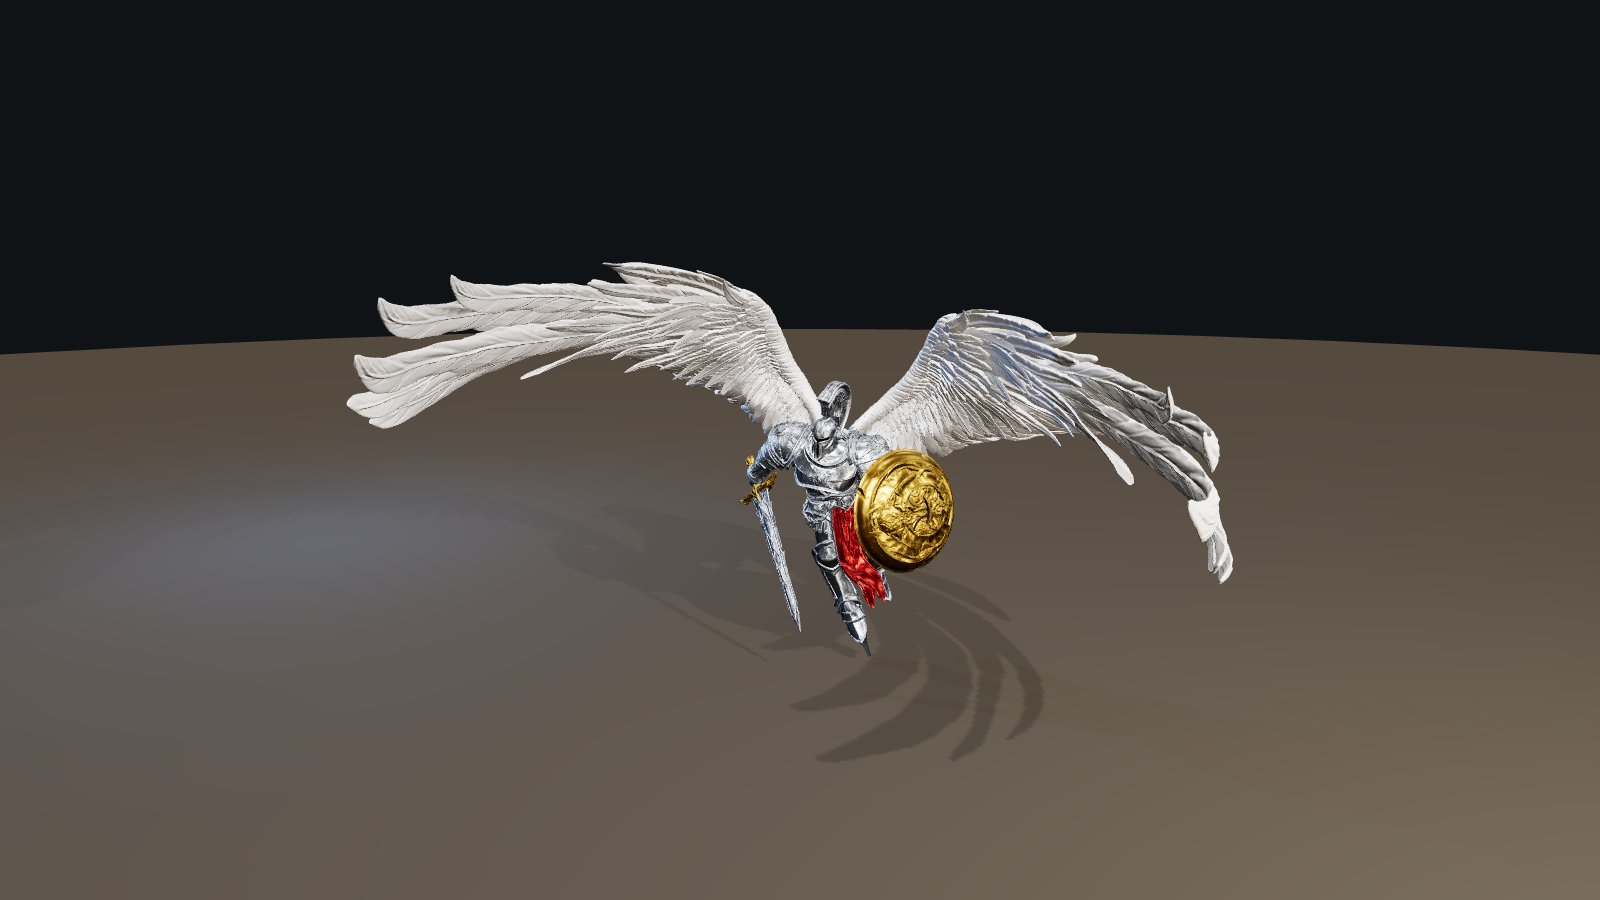
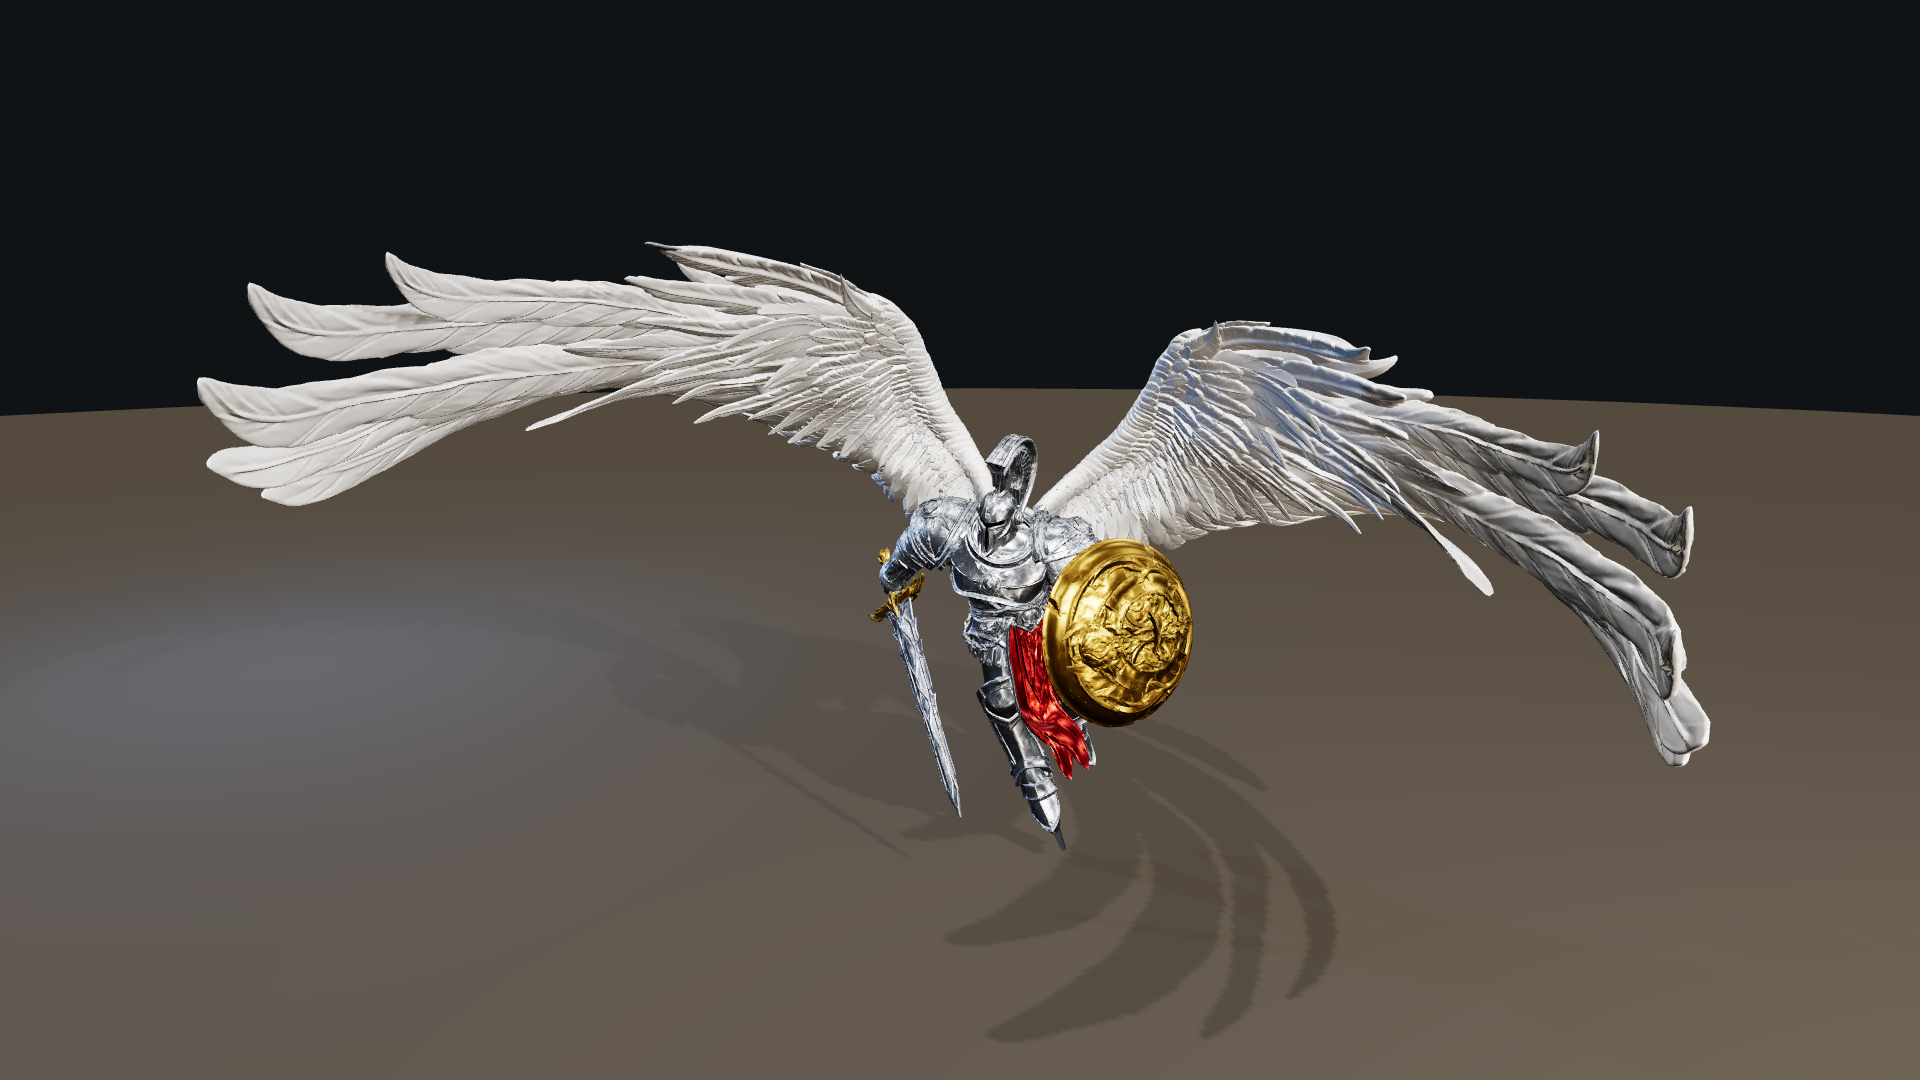
Publish Chromatory site

Changed region(s): [[0.0, 0.2178, 1.0, 0.7778]]

diff --git a/index.html b/index.html
@@ -147,6 +147,7 @@
       <a class="navlink" href="#free">Free tools</a>
       <a class="navlink" href="#features">Features</a>
       <a class="navlink" href="#gallery">Gallery</a>
+      <a class="navlink" href="https://patreon.com/Chromatory?utm_medium=unknown&amp;utm_source=join_link&amp;utm_campaign=creatorshare_creator&amp;utm_content=copyLink" target="_blank" rel="noopener">&#10084;&#65039; Patreon</a>
       <a class="btn primary" href="https://spiffcow.github.io/chromatory-light-studio/" target="_blank" rel="noopener">Launch Studio</a>
     </nav>
   </div>
@@ -190,7 +191,7 @@
           <li>Save your lighting rigs and grab reference renders</li>
         </ul>
         <a class="btn primary" href="https://spiffcow.github.io/chromatory-light-studio/" target="_blank" rel="noopener">Open the Light Studio</a>
-        <p class="vid-credit">Model shown: <b>The Price of Magic</b>, sculpted by Nerikson</p>
+        <p class="vid-credit">Model shown: <b><a href="https://www.myminifactory.com/users/nerikson" target="_blank" rel="noopener">The Price of Magic</a></b>, sculpted by Nerikson</p>
       </div>
       <div class="media">
         <video autoplay muted loop playsinline preload="metadata" poster="assets/studio-price-of-magic.png">
@@ -210,7 +211,7 @@
           <li>Export a single watertight STL that's ready to print</li>
         </ul>
         <a class="btn primary" href="https://spiffcow.github.io/chromatory-light-studio/assembly/" target="_blank" rel="noopener">Open the Assembly Workbench</a>
-        <p class="vid-credit">Model shown: <b>Krymathor</b>, sculpted by Flesh of Gods</p>
+        <p class="vid-credit">Model shown: <b><a href="https://www.myminifactory.com/object/3d-print-krymathor-the-keeper-ancient-red-dragon-474966" target="_blank" rel="noopener">Krymathor</a></b>, sculpted by Flesh of Gods</p>
       </div>
       <div class="media">
         <video autoplay muted loop playsinline preload="metadata" poster="assets/assembly-krymathor-complete.png">
@@ -230,7 +231,7 @@
           <li>Capture a reference render from any angle you like</li>
         </ul>
         <a class="btn primary" href="https://spiffcow.github.io/chromatory-light-studio/" target="_blank" rel="noopener">Open the Light Studio</a>
-        <p class="vid-credit">Model shown: <b>Lord Celestian Prime</b>, sculpted by Rescale Miniatures</p>
+        <p class="vid-credit">Model shown: <b><a href="https://www.myminifactory.com/object/3d-print-release-bastion-of-purity-volume-ii-627063" target="_blank" rel="noopener">Lord Celestian Prime</a></b>, sculpted by Rescale Miniatures</p>
       </div>
       <div class="media">
         <video autoplay muted loop playsinline preload="metadata" poster="assets/studio-celestian-nmm.png">
@@ -271,14 +272,12 @@
       <p>Real prints under the Light Studio. It's the same interactive view you'll get on your own models.</p>
     </div>
     <div class="gallery">
-      <figure><img src="assets/studio-price-of-magic.png" loading="lazy" alt="Silver NMM under arcane light" /><figcaption>The Price of Magic, arcane OSL and NMM<span class="credit">Sculpt: Nerikson</span></figcaption></figure>
-      <figure><img src="assets/studio-krymathor.png" loading="lazy" alt="Krymathor dragon over a golden glow" /><figcaption>Krymathor, lit by a golden glow<span class="credit">Sculpt: Flesh of Gods</span></figcaption></figure>
-      <figure><img src="assets/studio-moment-of-rest.png" loading="lazy" alt="A Moment of Rest by firelight" /><figcaption>A Moment of Rest, by firelight<span class="credit">Sculpt: Nerikson</span></figcaption></figure>
-      <figure><img src="assets/studio-pom-silver-nmm.png" loading="lazy" alt="Silver non-metallic metal" /><figcaption>A silver NMM look<span class="credit">The Price of Magic · Nerikson</span></figcaption></figure>
-      <figure><img src="assets/studio-pom-gold-nmm.png" loading="lazy" alt="Gold non-metallic metal" /><figcaption>Gold NMM, one click<span class="credit">The Price of Magic · Nerikson</span></figcaption></figure>
-      <figure><img src="assets/studio-pom-candle-osl.png" loading="lazy" alt="Candle OSL gradient" /><figcaption>Candle OSL, a fire gradient<span class="credit">The Price of Magic · Nerikson</span></figcaption></figure>
+      <figure><img src="assets/studio-price-of-magic.png" loading="lazy" alt="Silver NMM under arcane light" /><figcaption>The Price of Magic, arcane OSL and NMM<span class="credit">Sculpt: <a href="https://www.myminifactory.com/users/nerikson" target="_blank" rel="noopener">Nerikson</a></span></figcaption></figure>
+      <figure><img src="assets/studio-krymathor.png" loading="lazy" alt="Krymathor dragon over a golden glow" /><figcaption>Krymathor, lit by a golden glow<span class="credit">Sculpt: <a href="https://www.myminifactory.com/object/3d-print-krymathor-the-keeper-ancient-red-dragon-474966" target="_blank" rel="noopener">Flesh of Gods</a></span></figcaption></figure>
+      <figure><img src="assets/studio-moment-of-rest.png" loading="lazy" alt="A Moment of Rest by firelight" /><figcaption>A Moment of Rest, by firelight<span class="credit">Sculpt: <a href="https://www.myminifactory.com/users/nerikson" target="_blank" rel="noopener">Nerikson</a></span></figcaption></figure>
+      <figure><img src="assets/studio-celestian-closeup.png" loading="lazy" alt="Lord Celestian Prime in silver NMM, up close" /><figcaption>Lord Celestian Prime, silver NMM up close<span class="credit">Sculpt: <a href="https://www.myminifactory.com/object/3d-print-release-bastion-of-purity-volume-ii-627063" target="_blank" rel="noopener">Rescale Miniatures</a></span></figcaption></figure>
     </div>
-    <p class="center muted-note">Every miniature here is the work of its sculptor. <b>The Price of Magic</b> and <b>A Moment of Rest</b> are by Nerikson, and <b>Krymathor</b> is by Flesh of Gods. They're shown to demonstrate Chromatory.</p>
+    <p class="center muted-note">Every miniature here is the work of its sculptor. <b><a href="https://www.myminifactory.com/users/nerikson" target="_blank" rel="noopener">The Price of Magic</a></b> and <b><a href="https://www.myminifactory.com/users/nerikson" target="_blank" rel="noopener">A Moment of Rest</a></b> are by Nerikson, <b><a href="https://www.myminifactory.com/object/3d-print-krymathor-the-keeper-ancient-red-dragon-474966" target="_blank" rel="noopener">Krymathor</a></b> is by Flesh of Gods, and <b><a href="https://www.myminifactory.com/object/3d-print-release-bastion-of-purity-volume-ii-627063" target="_blank" rel="noopener">Lord Celestian Prime</a></b> is by Rescale Miniatures. They're shown to demonstrate Chromatory. If Chromatory earns a place at your bench, you can keep it going <a href="https://patreon.com/Chromatory?utm_medium=unknown&amp;utm_source=join_link&amp;utm_campaign=creatorshare_creator&amp;utm_content=copyLink" target="_blank" rel="noopener">on Patreon</a>.</p>
   </div>
 </section>
 